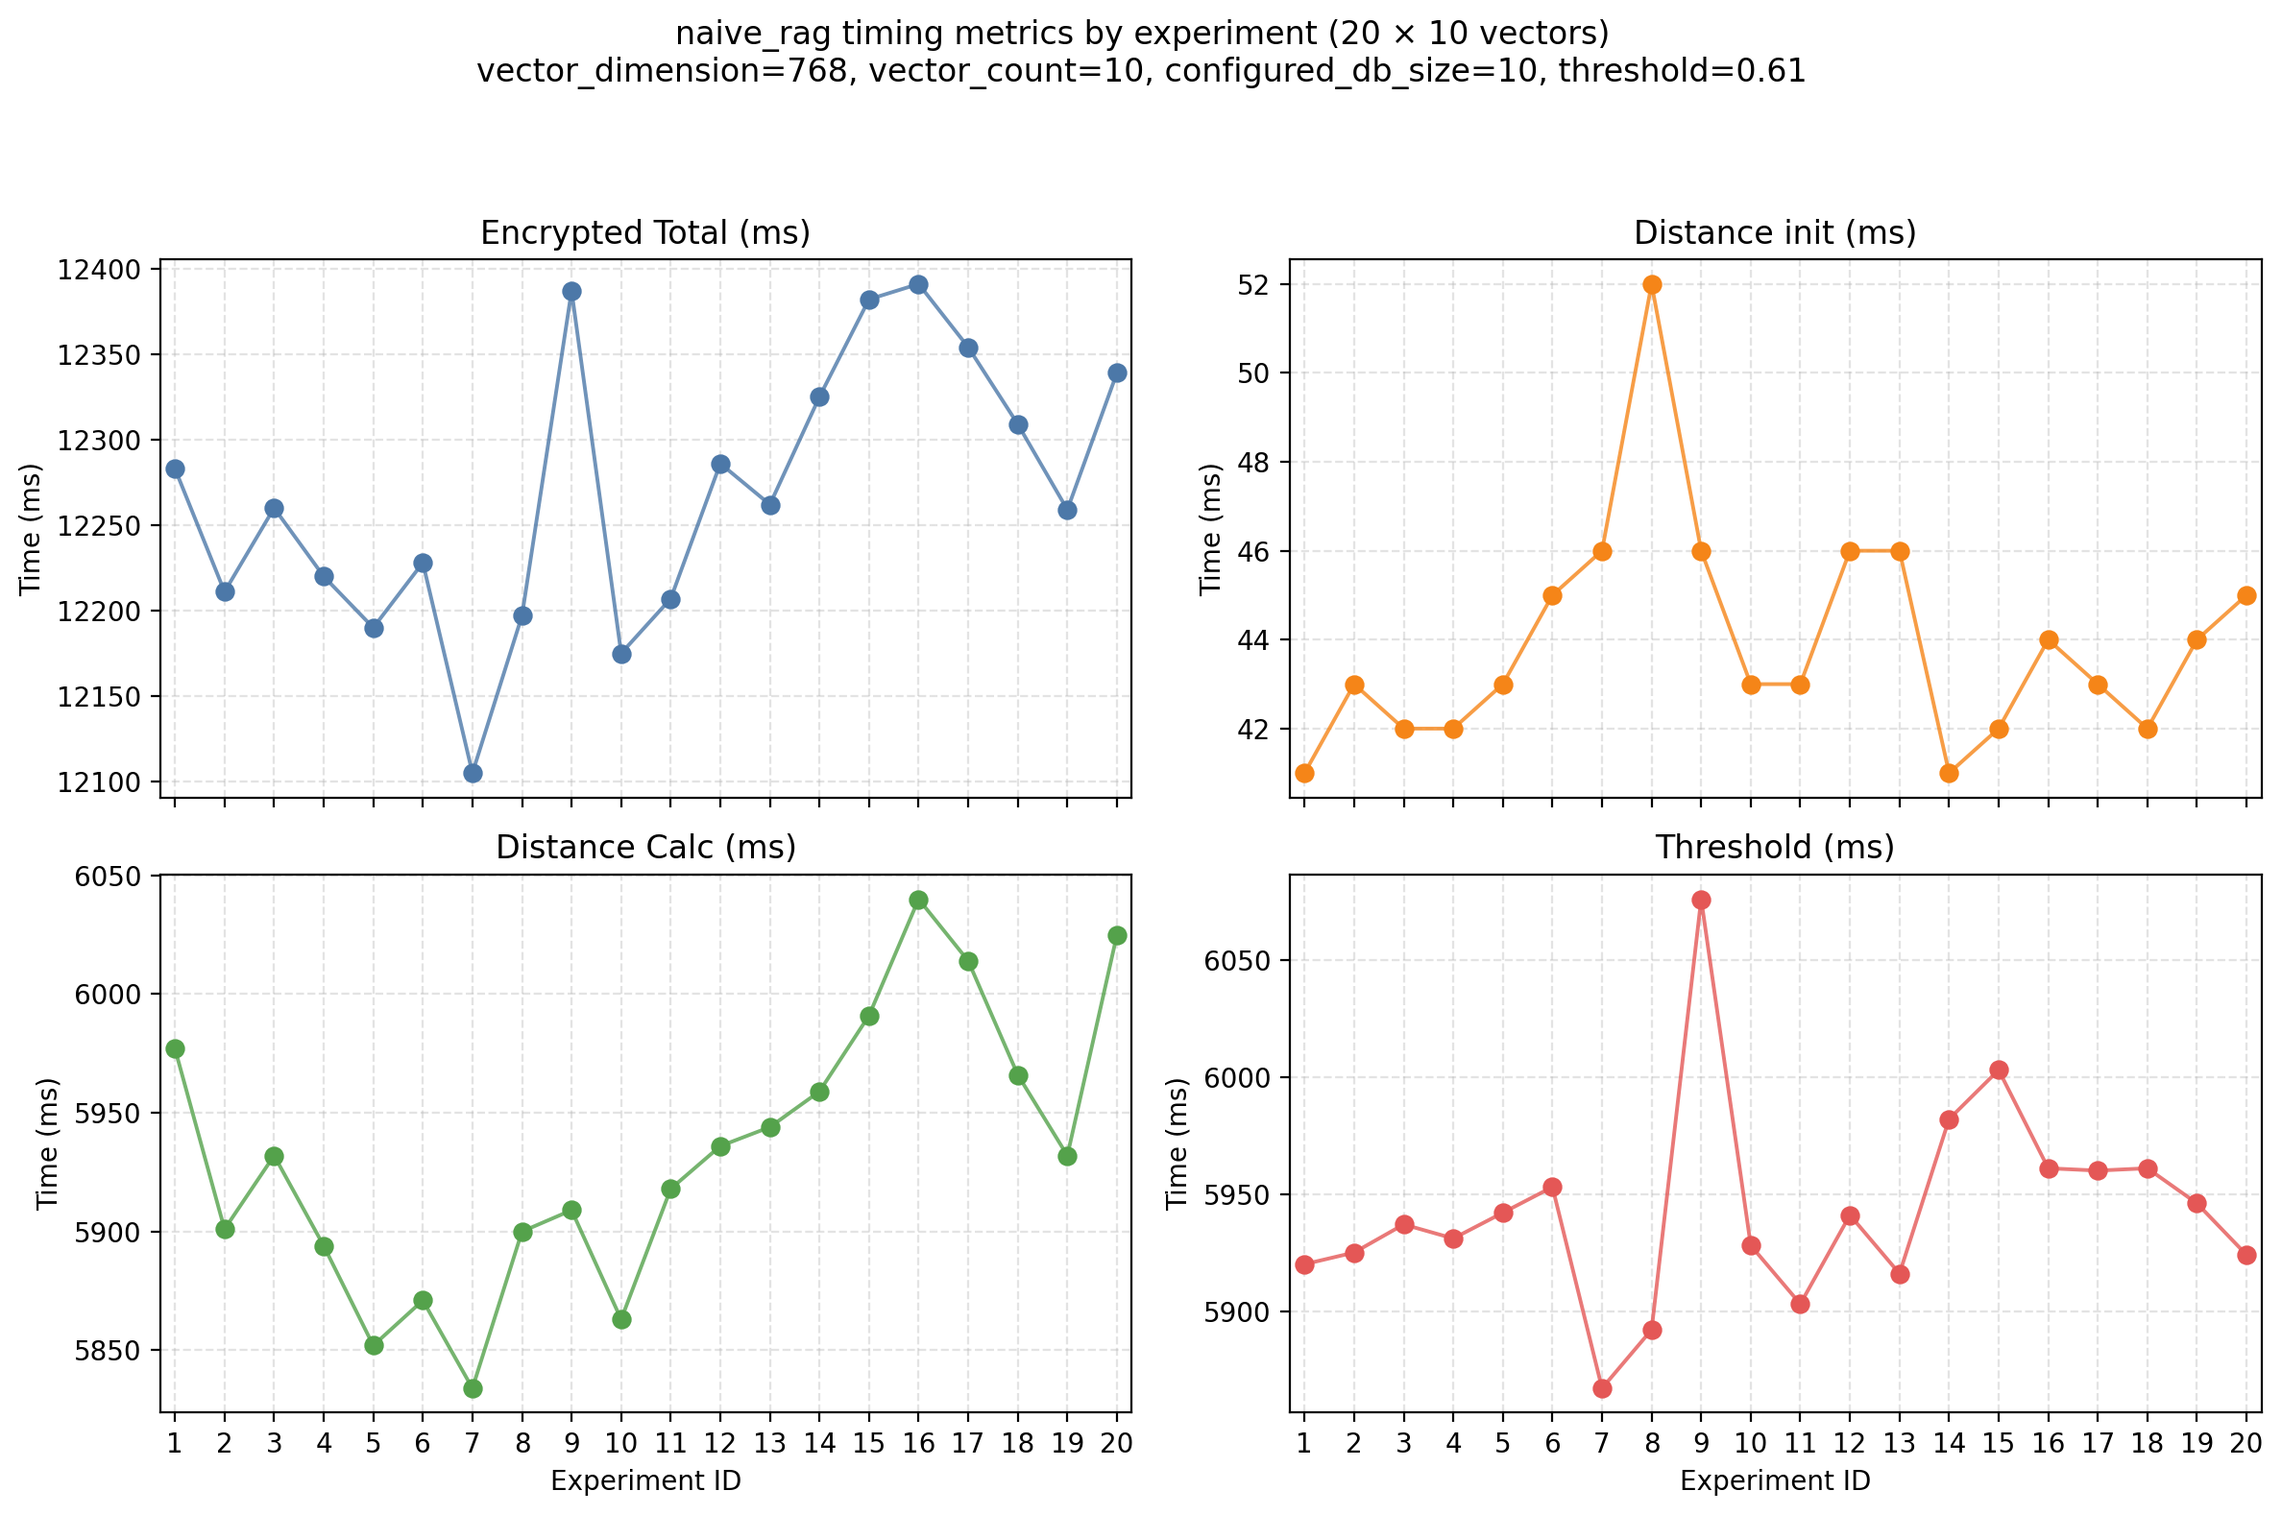
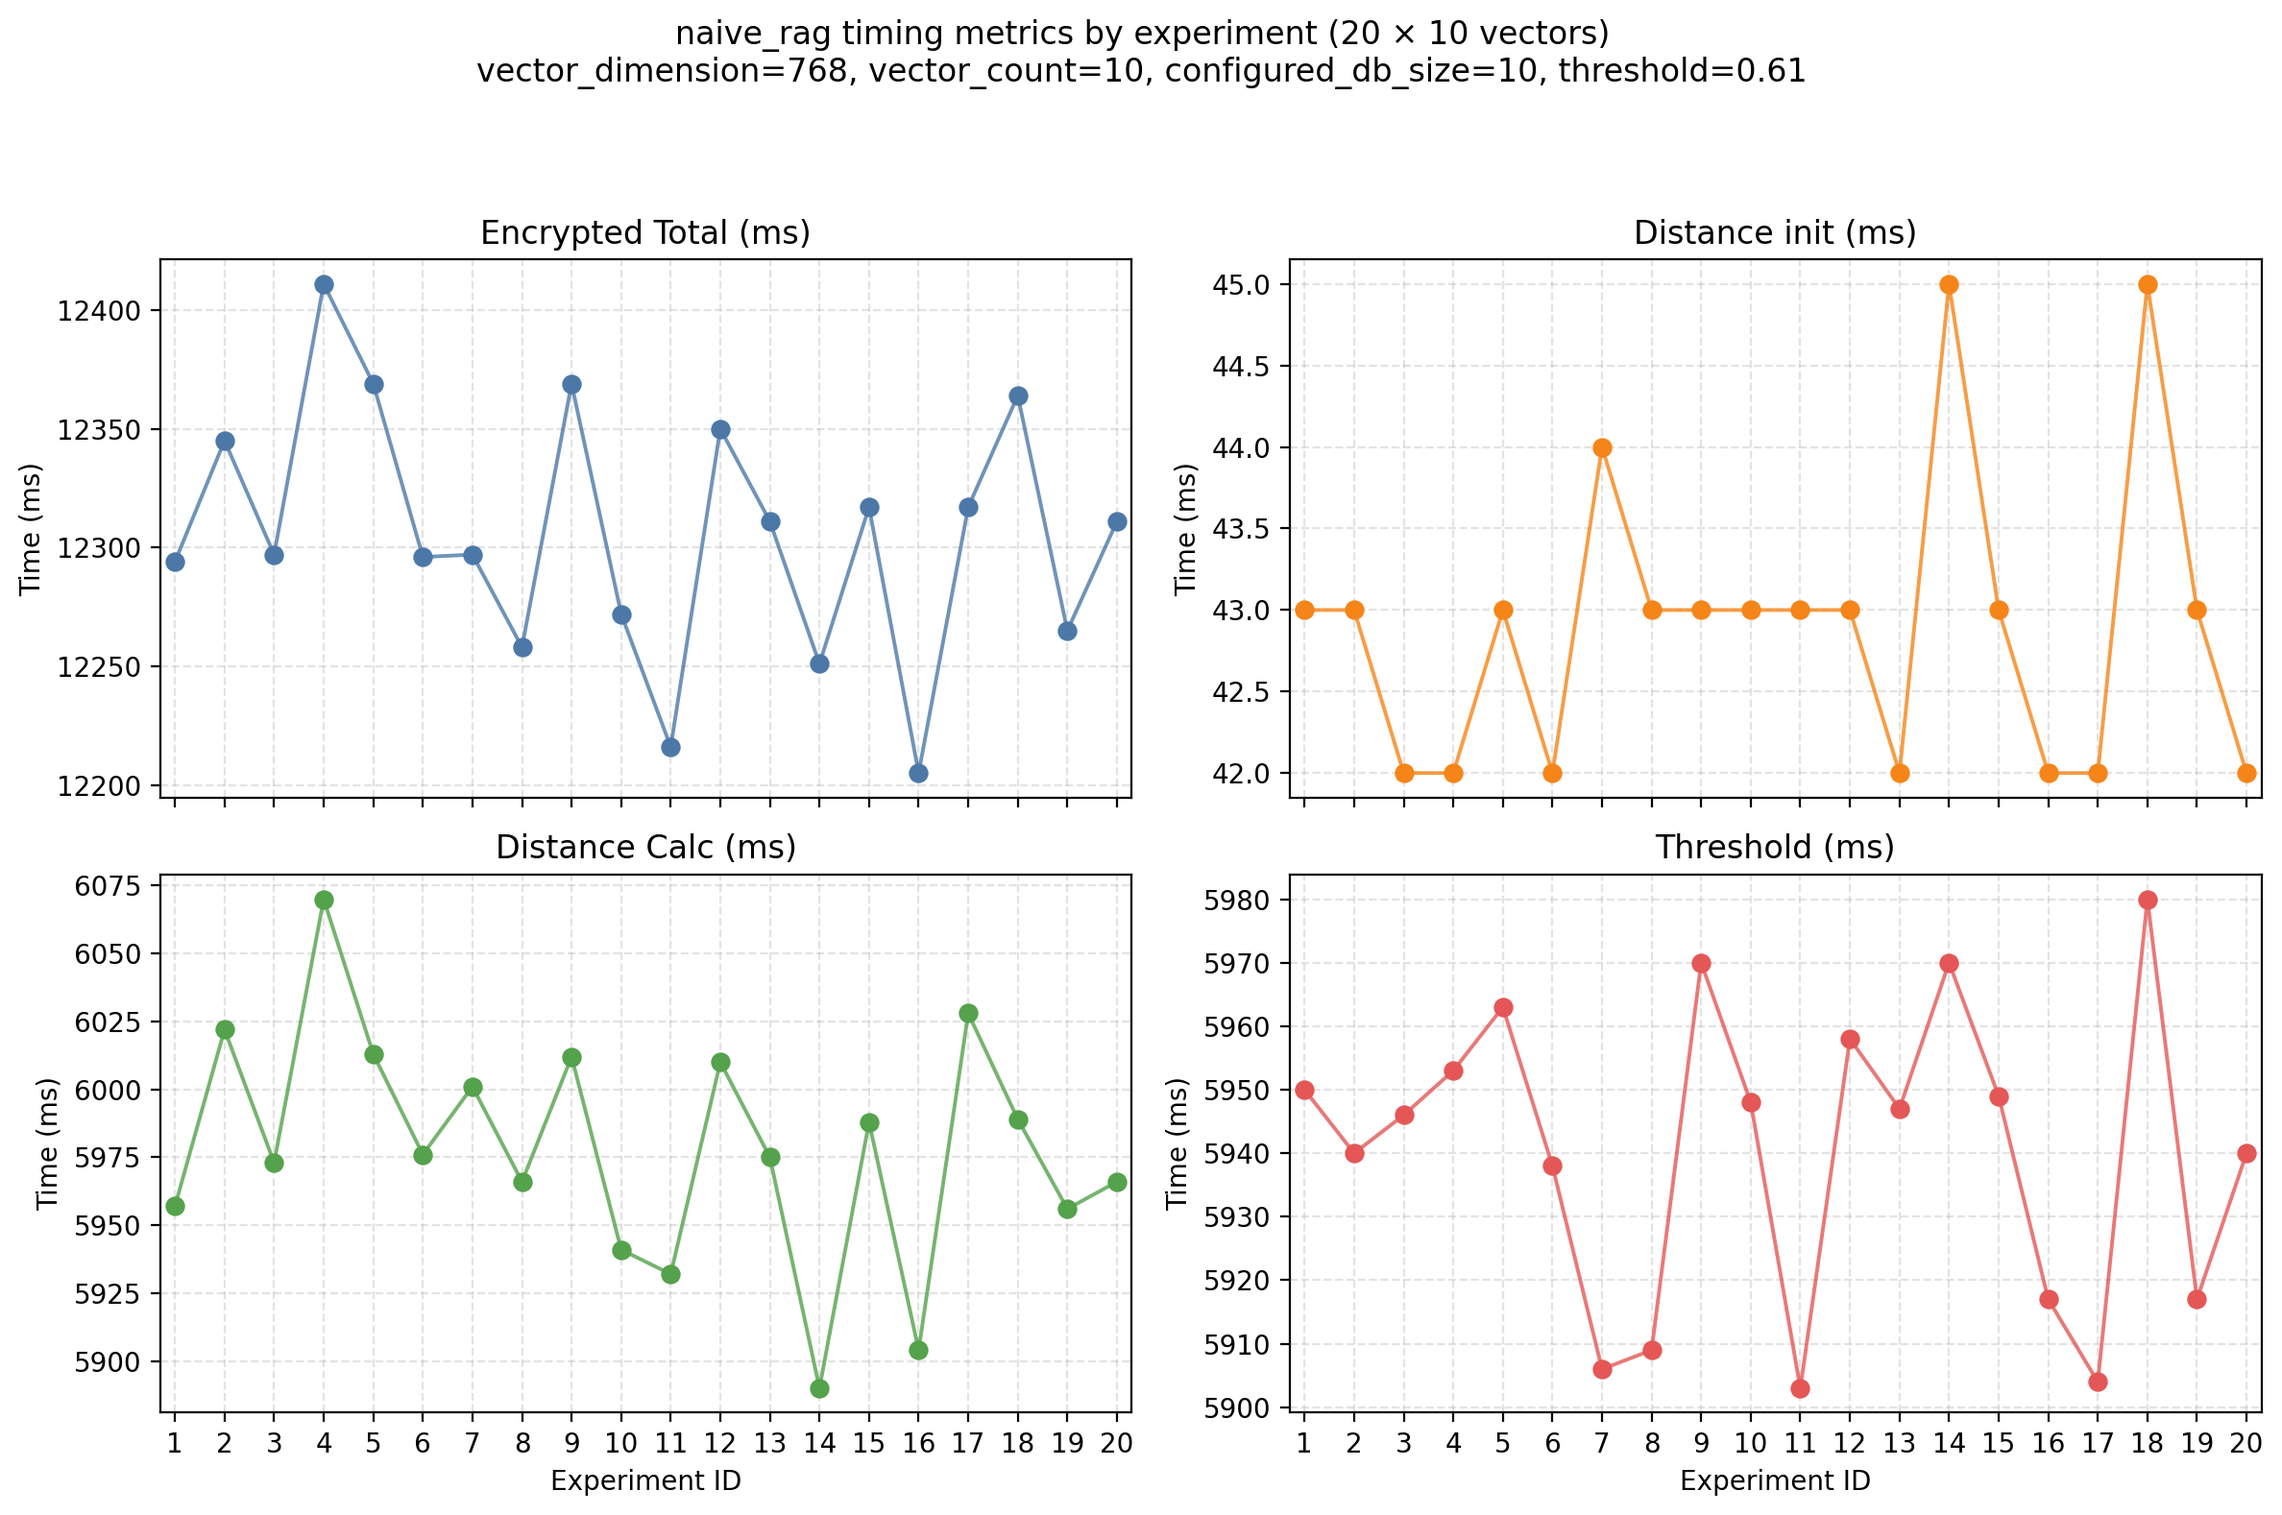
timing experiments redone

diff --git a/main.cpp b/main.cpp
@@ -146,19 +146,13 @@ int main(int argc, char *argv[]) {
     const size_t db_size = (kMaxDbVectors == 0) ? embedding_database.size()
                                                 : std::min(kMaxDbVectors, embedding_database.size());
     std::cout << "Configured DB size: " << db_size << std::endl;
-    using Clock = std::chrono::steady_clock;
-    std::chrono::nanoseconds plaintextSquaresDuration(0);
-    std::chrono::nanoseconds encryptedInitDuration(0);
 
     /// PLAINTEXT APPROACH
-    const auto initSquaresStart = Clock::now();
     const float square_query_embedding = square(query_embedding);
     std::vector<float> square_embedding_database(db_size);
     for (size_t i = 0; i < db_size; i++) {
         square_embedding_database[i] = square(embedding_database[i]);
     }
-    plaintextSquaresDuration += std::chrono::duration_cast<std::chrono::nanoseconds>(
-        Clock::now() - initSquaresStart);
 
     std::vector<float> plaintext_distances(db_size);
     for (size_t i = 0; i < db_size; i++) {
@@ -205,8 +199,20 @@ int main(int argc, char *argv[]) {
 
 
     // ENCRYPTED APPROACH
+
+    // start total time 
+    using Clock = std::chrono::steady_clock;
     const auto encryptedTotalStart = Clock::now();
-    const auto initEncryptedSetupStart = Clock::now();
+
+    // start intialization time 
+    std::chrono::nanoseconds initializationDuration(0);
+    std::chrono::nanoseconds distanceCalcDuration(0);
+    bool initTimerRunning = true;
+    bool distanceTimerRunning = false;
+    auto initStart = Clock::now();
+    Clock::time_point distanceStart;
+
+
     std::vector<double> query_embedding_d(query_embedding.begin(), query_embedding.end());
     padPackedSlots(query_embedding_d, batchSize);
     // Encrypt query embedding
@@ -219,12 +225,9 @@ int main(int argc, char *argv[]) {
 
     std::vector<float> distances(db_size);
     std::vector<Ciphertext<DCRTPoly>> ctDistances(db_size);
-    encryptedInitDuration += std::chrono::duration_cast<std::chrono::nanoseconds>(
-        Clock::now() - initEncryptedSetupStart);
 
-    // Packed plaintext -2d for every DB vector (timed as part of distance initialization).
+    // Packed plaintext -2d for every DB vector (
     std::vector<std::vector<double>> neg2_db_packed(db_size);
-    const auto neg2DatabasePrepStart = Clock::now();
     for (size_t i = 0; i < db_size; i++) {
         std::vector<double> d_vec_d(embedding_database[i].begin(), embedding_database[i].end());
         for (double &x : d_vec_d) {
@@ -233,14 +236,18 @@ int main(int argc, char *argv[]) {
         padPackedSlots(d_vec_d, batchSize);
         neg2_db_packed[i] = std::move(d_vec_d);
     }
-    const std::chrono::nanoseconds neg2DatabasePrepDuration =
-        std::chrono::duration_cast<std::chrono::nanoseconds>(Clock::now() - neg2DatabasePrepStart);
 
-    // Distance HE: "inner" = packed EvalMult + sumAllSlots (dominant cost). "tail" = plain ||d||^2
-    // slot + two EvalAdd to finish d^2. Older timing only measured the tail after sumAllSlots
-    // (plus a separate EvalMult by -2), so historical "Distance calculation" logs looked tiny.
-    std::chrono::nanoseconds distanceInnerDuration(0);
-    std::chrono::nanoseconds distanceTailDuration(0);
+    // pause initialization time 
+    if (initTimerRunning) {
+        initializationDuration += std::chrono::duration_cast<std::chrono::nanoseconds>(Clock::now() - initStart);
+        initTimerRunning = false;
+    }
+
+    // start distance computation time  
+    // resume distance computation time 
+    distanceTimerRunning = true;
+    distanceStart = Clock::now();
+
     for (size_t i = 0; i < db_size; i++) {
 
         // printing progress for testing
@@ -248,27 +255,68 @@ int main(int argc, char *argv[]) {
             std::cout << "Processing vector " << i << " / " << db_size << std::endl;
         }
         
-        // Prepacked -2d from initialization (EvalMult(ctE, pt) => slotwise e*(-2d)).
+        // resume initialization time 
+        if (!initTimerRunning) {
+            initTimerRunning = true;
+            initStart = Clock::now();
+        }
+
+        // Prepacked -2d from initialization
         Plaintext ptD = cc->MakeCKKSPackedPlaintext(neg2_db_packed[i]);
 
-        const auto distanceInnerStart = Clock::now();
+        // pause initialization time 
+        if (initTimerRunning) {
+            initializationDuration += std::chrono::duration_cast<std::chrono::nanoseconds>(Clock::now() - initStart);
+            initTimerRunning = false;
+        }
+
         // <e, -2d> via packed multiply + slot sum (same as -2<e,d>)
+
+        // resume distance computation time 
+        if (!distanceTimerRunning) {
+            distanceTimerRunning = true;
+            distanceStart = Clock::now();
+        }
         Ciphertext<DCRTPoly> ctED = cc->EvalMult(ctE, ptD);
         Ciphertext<DCRTPoly> ctNeg2Inner = OpenFHEWrapper::sumAllSlots(cc, ctED);
-        distanceInnerDuration += std::chrono::duration_cast<std::chrono::nanoseconds>(
-            Clock::now() - distanceInnerStart);
 
-        const auto distanceTailStart = Clock::now();
+        // pause distance computation time 
+        if (distanceTimerRunning) {
+            distanceCalcDuration += std::chrono::duration_cast<std::chrono::nanoseconds>(Clock::now() - distanceStart);
+            distanceTimerRunning = false;
+        }
+
+        // resume initialization time 
+        if (!initTimerRunning) {
+            initTimerRunning = true;
+            initStart = Clock::now();
+        }
+
         // (||d||^2) as plaintext replicated across slots
         const double d2 = static_cast<double>(square_embedding_database[i]);
         Plaintext ptD2 = cc->MakeCKKSPackedPlaintext(std::vector<double>(batchSize, d2));
 
+        // pause initialization time 
+        if (initTimerRunning) {
+            initializationDuration += std::chrono::duration_cast<std::chrono::nanoseconds>(Clock::now() - initStart);
+            initTimerRunning = false;
+        }
+
+        // resume distance computation time 
+        if (!distanceTimerRunning) {
+            distanceTimerRunning = true;
+            distanceStart = Clock::now();
+        }
         // Distance^2 = ||d||^2 + ||e||^2 - 2<e,d>
         Ciphertext<DCRTPoly> ctDist = cc->EvalAdd(ctNeg2Inner, ptD2);
         ctDist = cc->EvalAdd(ctDist, ptE2Slots);
-        distanceTailDuration += std::chrono::duration_cast<std::chrono::nanoseconds>(
-            Clock::now() - distanceTailStart);
         ctDistances[i] = ctDist;
+
+        // pause distance computation time 
+        if (distanceTimerRunning) {
+            distanceCalcDuration += std::chrono::duration_cast<std::chrono::nanoseconds>(Clock::now() - distanceStart);
+            distanceTimerRunning = false;
+        }
 
         // decrypt distance^2
         Plaintext ptDist;
@@ -277,6 +325,17 @@ int main(int argc, char *argv[]) {
         const auto vals = ptDist->GetRealPackedValue();
         const double raw = vals.empty() ? 0.0 : static_cast<double>(vals[0]);
         distances[i] = static_cast<float>(std::max(0.0, raw));
+    }
+
+    // stop distance computation time
+    if (distanceTimerRunning) {
+        distanceCalcDuration += std::chrono::duration_cast<std::chrono::nanoseconds>(Clock::now() - distanceStart);
+        distanceTimerRunning = false;
+    }
+    // stop initialization time 
+    if (initTimerRunning) {
+        initializationDuration += std::chrono::duration_cast<std::chrono::nanoseconds>(Clock::now() - initStart);
+        initTimerRunning = false;
     }
 
     // add to file 
@@ -291,9 +350,11 @@ int main(int argc, char *argv[]) {
         }
     }
 
+    // start chebyshev thresholding time  
+    const auto thresholdStart = Clock::now();
+
     // Chebyshev thresholding in similarity space (same decision rule as plaintext d^2 < T):
     // sim = 1 - (d^2 / 2); compare sim >= nextafter(1 - T/2, ...) <=> d^2 < T.
-    const auto thresholdStart = Clock::now();
     std::vector<Ciphertext<DCRTPoly>> distanceThresholds(db_size);
     for (size_t i = 0; i < db_size; i++) {
         Ciphertext<DCRTPoly> ctSimilarity = cc->EvalMult(ctDistances[i], -0.5);
@@ -303,8 +364,14 @@ int main(int argc, char *argv[]) {
             cc, ctSimilarity, kSimilarityForStrictLessOnD2, COMP_DEPTH);
         distanceThresholds[i] = ctStep;
     }
+
+    // stop chebyshev thresholding time 
     const auto thresholdEnd = Clock::now();
 
+    // stop total time 
+    const auto encryptedTotalEnd = Clock::now();
+
+    
     // chebyshevCompare targets ~0 or ~2 after +1; bit = v>1. That is the ideal; decrypted values are
     // not exact 0/2 (polynomial + CKKS error). Similarity is computed in ciphertext, so it can
     // disagree with an exact sim from float d^2 even when distances[i] matches plaintext.
@@ -330,51 +397,24 @@ int main(int argc, char *argv[]) {
             out << i << "," << static_cast<int>(distanceThresholdsPT[i]) << "\n";
         }
     }
-    const auto encryptedTotalEnd = Clock::now();
 
-    const std::chrono::nanoseconds distanceInitializationDuration =
-        plaintextSquaresDuration + encryptedInitDuration + neg2DatabasePrepDuration;
-    const auto distanceInitMs =
-        std::chrono::duration_cast<std::chrono::milliseconds>(distanceInitializationDuration).count();
-    const auto plaintextSquaresMs =
-        std::chrono::duration_cast<std::chrono::milliseconds>(plaintextSquaresDuration).count();
-    const auto encryptedInitMs =
-        std::chrono::duration_cast<std::chrono::milliseconds>(encryptedInitDuration).count();
-    const auto neg2DatabasePrepMs =
-        std::chrono::duration_cast<std::chrono::milliseconds>(neg2DatabasePrepDuration).count();
-    const std::chrono::nanoseconds distanceCoreDuration = distanceInnerDuration + distanceTailDuration;
-    const auto distanceCalcMs =
-        std::chrono::duration_cast<std::chrono::milliseconds>(distanceCoreDuration).count();
-    const auto distanceInnerMs =
-        std::chrono::duration_cast<std::chrono::milliseconds>(distanceInnerDuration).count();
-    const auto distanceTailMs =
-        std::chrono::duration_cast<std::chrono::milliseconds>(distanceTailDuration).count();
-    const auto thresholdMs =
-        std::chrono::duration_cast<std::chrono::milliseconds>(thresholdEnd - thresholdStart).count();
     const auto encryptedTotalMs =
         std::chrono::duration_cast<std::chrono::milliseconds>(encryptedTotalEnd - encryptedTotalStart).count();
-    const auto encryptedThroughHomomorphicThresholdMs =
-        std::chrono::duration_cast<std::chrono::milliseconds>(thresholdEnd - encryptedTotalStart).count();
+    const auto initializationMs =
+        std::chrono::duration_cast<std::chrono::milliseconds>(initializationDuration).count();
+    const auto distanceCalcMs =
+        std::chrono::duration_cast<std::chrono::milliseconds>(distanceCalcDuration).count();
+    const auto thresholdMs =
+        std::chrono::duration_cast<std::chrono::milliseconds>(thresholdEnd - thresholdStart).count();
 
     std::cout << "\nTiming summary (encrypted pipeline)\n";
     std::cout << "  Distance initialization (squaring, query encrypt, ptE2Slots, -2d DB prep): "
-              << distanceInitMs << " ms\n";
-    std::cout << "    breakdown ms -- squaring: " << plaintextSquaresMs
-              << ", query encrypt+ptE2Slots: " << encryptedInitMs << ", -2d pack all DB: "
-              << neg2DatabasePrepMs << "\n";
-    std::cout << "  Running total (encrypted start -> last encrypted output file): " << encryptedTotalMs
-              << " ms\n";
-    std::cout << "    (includes distance ct decrypts, homomorphic threshold, threshold decrypt, I/O)\n";
-    std::cout << "  Encrypted wall-clock through homomorphic threshold end: "
-              << encryptedThroughHomomorphicThresholdMs << " ms\n";
-    std::cout << "    (encrypted start -> after Chebyshev; incl. HE distances, distance decrypts, "
-                 "distances.txt; excludes threshold ct decrypt and later)\n";
-    std::cout << "  Distance calculation (<e,-2d> sum + d^2 + e^2, no decrypt): " << distanceCalcMs
-              << " ms\n";
-    std::cout << "    (inner EvalMult + sumAllSlots: " << distanceInnerMs
-              << " ms; tail adds for d^2: " << distanceTailMs << " ms)\n";
+              << initializationMs << " ms\n";
+    std::cout << "  Running total (encrypted start -> last encrypted output file): "
+              << encryptedTotalMs << " ms\n";
+    std::cout << "  Distance calculation (<e,-2d> sum + d^2 + e^2, no decrypt): "
+              << distanceCalcMs << " ms\n";
     std::cout << "  Thresholding: " << thresholdMs << " ms\n";
-    std::cout << "    (homomorphic only: sim transform + Chebyshev; excludes threshold decrypt and 0/1 cut)\n";
 
     // Compare plaintext vs encrypted threshold bits
     size_t threshold_matches = 0;
@@ -428,11 +468,3 @@ int main(int argc, char *argv[]) {
 // href="https://www.jetbrains.com/help/clion/">jetbrains.com/help/clion/</a>.
 //  Also, you can try interactive lessons for CLion by selecting
 //  'Help | Learn IDE Features' from the main menu.
-
-// Timing metrics (see printed "Timing summary"):
-// - Distance initialization (CSV column initialization_ms): squaring query+DB, encrypt query + ptE2Slots,
-//   and packing -2*d for every DB vector (plaintext) before the HE distance inner loop.
-// - Running total: encryptedTotalEnd - encryptedTotalStart (full encrypted pipeline incl. decrypts+I/O).
-// - Encrypted through homomorphic threshold end: thresholdEnd - encryptedTotalStart.
-// - Distance calculation (CSV): inner EvalMult+sumAllSlots + tail adds (excl. distance decrypt).
-// - Thresholding (CSV): thresholdEnd - thresholdStart (homomorphic only).
